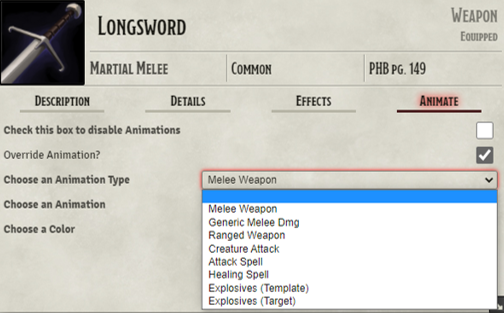
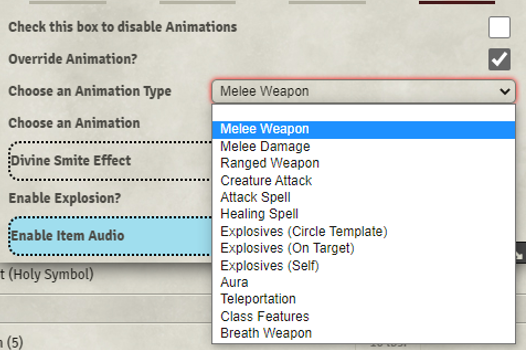
Readme Updates

diff --git a/README.md b/README.md
@@ -1,8 +1,9 @@
-## NOTE: This is now backwards compatible with miniumum Foundry Core version 0.7.9
-
-## ALSO NOTE: 0.3.50 and above REQUIRES an Uninstall/Reinstall of the Automated Animations Module from version 0.3.28. I had to change the back-end module name to be able implement Sounds  
-
-### Patreon Link: https://www.patreon.com/otigon : Not required, but appreciated
+## NOTE: 0.3.50 and above REQUIRES an Uninstall/Reinstall of the Automated Animations Module from version 0.3.28. I had to change the back-end module name to be able implement Sounds  
+If you enjoy Automated Animations, consider sending some love on Patreon
+### Patreon Link: https://www.patreon.com/otigon : Not required, but appreciated  
+\
+\
+\
 
 # Automated Animations
 **No animations are provided in this module. It is designed to work in conjunction with the JB2A Animated Assets module. This module has been reviewed, approved and recommended by JB2A**  
@@ -16,55 +17,90 @@ https://github.com/otigon/automated-jb2a-animations/blob/main/Animations/Availab
 
 # Introduction
 
-
 Time to ditch those animation macros! This module is designed to implement all of the "instant" duration animations like:
 
 - Weapon Attacks
 - Attack Spells
 - Explosions
-- Healing Spells
+- Healing Spells  
+**Now implementing:**
+- Instant Template Effects
+- Class Features  
+- Aura Effects with the **Custom Token Animations** module by Kandashi
+- Sound Effect options
 
-Currently implemented for **D&D 5e** and **PF1**, this module leverages the excellent animations from **JB2A**
+Current System Compatibility:  
+- DnD 5e  
+- PF1  
+- Shadow of the Demon Lord  
+- Tormenta 20  
+- Swade (WIP, it seems to broken atm)  
+
+Systems in Process for Compatibility:  
+- Starfinder (in process)  
+- Warhammer  (awaiting 0.8 system release)  
+- DnD 3.5 (in process)  
+- Please log a GitHub request for other systems  
 
 REQUIRED MODULES: 
-- **FXMaster**
 - **JB2A** - Jules&Ben's Animated Assets (patreon and/or free version)  
 
 Optional Modules:
 - Token Magic FX
 
-Supported Modules for 5e (Those that mess with rolling):
-- CORE support now live!
+Supported Modules for DnD5e (Those that mess with rolling):
+- CORE
 - MRE; Options to play animations on Attack or Damage
-- Midi-QOL; Options to play animations on Damage, Hit Targets, Check Saves for certain effects
-- Better Rolls; version 1.4.5 and above will play the animation on Attack Rolls through Better Rolls. I'll work on optional play on Damage Rolls for BR
-
-PF1 Support:
-- Initial support for the PF1 system. There may be bugs that pop up, but let me know and I'll get on it to fix them
-
+- Midi-QOL; Options to play animations on Attack, Damage, Hit Targets, Check Saves for certain effects
+- Better Rolls; version 1.4.5 and above will play the animation on Attack Rolls through Better Rolls. I'll work on optional play on Damage Rolls for BR  
+- Minimal Rolling Enhancements  
+- Mars 5e  
 
 ## Roadmap (subject to change):  
-    
-1. Adding Localization to support other languages -- DONE     
-2. Extending support to Star Wars, GURP  -- In Progress
-4. Adding customizable TMFX options on a per item basis (versus a global on/off setting currently)
-5. Ability to easily apply Sound FX in item customization settings  -- waiting until 0.8 stable  
-6. Adding more automatic recognition options (Spiritual Weapon Auto-Spawn & Delete, Reaction effects, Stuns, etc)  
+     
+1. Extending support to more systems  -- In Process
+2. Adding customizable TMFX options on a per item basis (versus a global on/off setting currently)  
+3. Adding "Summon" effects for spells/features  
+4. Enhancing Item Sounds to use a wildcard feature  
 
 # Overview
 ## Attack Spells and Melee attacks require a token(s) to be Targeted
 
-This module functions similarly to calling On-Use Macros through Midi-QOL or Item Macro. However, this will run all of the animations behind the scenes without fussing with macros. This is ONLY set up for DnD5e and PF1 currently, though may work on other similar systems. System expansion will be in the works soon (see roadmap above) 
+This module functions similarly to calling On-Use Macros through Midi-QOL or Item Macro. However, this will run all of the animations behind the scenes without fussing with macros.  
 
-Automated Animations reads the data passed through Chat Cards, or Module Hooks, to get the **Name** of the item. Items (Spells, Weapons, etc) that have a **name** matching a **JB2A animation** will play an animation on use. This generally occurs on the Attack Roll, with options for playing Animations on Damage Rolls. All **default** colors for available animations are based on the **Free** JB2A Module. To use color variants, you need to have the **Patreon** version of the JB2A Module.
+Automated Animations reads the data passed through Chat Cards, or Module Hooks, to get the required information. Items (Spells, Weapons, etc) that have a **name** matching a **JB2A animation** will automatically play an animation on use. This generally occurs on the Attack Roll, with options for playing Animations on Damage Rolls. All **default** colors for available animations are based on the **Free** JB2A Module. To use color variants, you need to have the **Patreon** version of the JB2A Module.  
+# Module Settings  
+ 
+- **Disable the Startup Window Popup**: Prevents the Welcome Information from opening on start-up  
+- **Global Delay**: Adds a user specified Delay to the start of ALL animations. Designated in milliseconds  
+- **Animations Play ABOVE Overhead Tiles**: By default, animations are rendered BELOW any Overhead tiles. This makes for great depth on scenes.  
+- **Autoplay Video Preview in A-A Tab**:  
+-- **No Video Preview** (Default)  
+-- **Manual Play**: Must click a play button to preview  
+-- **Autoplay**: Video previews automatically play
+- **Hide Animation Tab from Players**: Prevents Player access to the A-A Tab
+- **Targeting Assistant**: Plays a "No Target" animation on the Source Token if there are no targets when an animation was expecting at least one  
+- **Enable Token Magic FX**: Turns on integerated Token Magic Effects filters (Will change on a future update)  
+- **Only play animations on Damage Rolls**: DEFAULT behavior plays animations on Attack Rolls  
+  
 
-# Animate Tab  
+**Midi-QOL ONLY Options** (Will expand on future updates)
+- **Only Play Animations on Hits**: Will not play animations on misses  
+- **Play Animations on Hits and Misses**: Midi-QOL ONLY option. Animations veer off-target on misses  
+- **Critical Hit and Critical Miss**: Enables Crit Hit and Miss Animations (user specified via File Picker).  
+
+# A-A Tab  
+
 
 ![Alt text](pictures/AnimateTab.PNG)  
 
-The **Animate** Tab on Item sheets allows users to customize colors (from the Patreon module), assign a different animation to the item, or stop the animation from playing altogether.  
+The **A-A** Tab on Item sheets allow users to customize colors (from the Patreon module), assign a different animation to the item, stop the animation from playing, and enable Sounds to play when the item is used.  
 
 Item Names that are automatically Recognized will have the **COLOR** menu pre-populated with available color variants. This is where you will change the colors of the animation.  
+  
+Some items are automatically recognized, and will play animations by default. For ANY item that is automatically recognized or not, you can change/set the desired animation by checking the OVERRIDE button in the A-A Tab.  
+  
+Checking the **DISABLE** animation button will cause NO animation to play for those that are automatically recognized.  
   
 ![Alt text](pictures/AnimateColors.PNG)  
   
@@ -73,43 +109,85 @@ To use a different animation, or to assign an animation to an Item that doesn't 
 ![Alt text](pictures/AnimateOverride.PNG)  
 
 This enables an option to **Choose an Animation Type**. This menu is divided into several categories:  
-- Melee Weapon  
-- Generic Melee Damage  
-- Ranged Weapon  
-- Creature Attack  
-- Attack Spell  
-- Healing Spell  
-- Explosives (Template)  
-- Explosives (Target)  
 
+
+## Melee Weapon  
+
+Melee Animations such as Greataxe, Mace, Rapier etc. Some animations also have "Ranged" variants and will switch between the Melee and Ranged Animation depending on token position and other class features.  
+- Dagger
+- Handaxe
+- Spear  
+  
+You can also use the following sub-options:  
+- Divine Smite effect (Divine Smite on self and target are configureable)
+- Explosion (Add explosive effects on hit)  
+-- Explosion Sounds are configurable with this option
+  
+## Melee Damage  
+  
+Provides Generic Damage type animations (patreon ONLY), and the Unarmed Strike and Flurry of Blows animations  
+  
+  You can also use the following sub-options:  
+- Divine Smite effect (Divine Smite on self and target are configureable)
+- Explosion (Add explosive effects on hit)  
+-- Explosion Sounds are configurable with this option
+  
+## Ranged Weapon 
+
+Ranged Weapon animations such as Arrow, Boulder, Laser Shots, and a Throwing Hammer  
+  
+Using the "Arrow" Animation allows for choosing an Explosion Effect on arrow landing  
+  
+## Creature Attack  
+  
+Bite and Claw Animations  
+  
+## Attack Spells  
+  
+Contains all JB2A Attack Spell animations such as Fire Bolt, Guiding Bolt and Ray of Frost  
+  
+## Healing Spell
+  
+Contains the Cure Wounds and Generic Healing animations. Where available, variant options are provided  
+  
+## Explosives (Circle Template)  
+  
+Designed for use with items that have a Sphere, Cone, Circle type template (required). You can set the Variant, Radius and number of Loops for the animation.  
+  
+## Explosives (On Target)  
+  
+Causes an Explosion animation on the Targeted Token on item use  
+  
+## Explosives (Self)  
+  
+Intended for "Self Emanating" effects like Nova Explosions, Anti-Life Shell, etc. These will happen on the Source Token  
+  
+## Aura (REQUIRES the Custom Token Animations Module)  
+  
+Offers several JB2A Animations to be used as an Aura effect, and spawns a Dialog box that will delete the CTA aura effect when used. If you close (X) the dialog box unintentionally, you will need to delete the effect using the CTA panel.  
+Gives the options to set the Radius, Animation Type, Tint, and Opacity (0.75 recommended)  
+  
+## Teleportation  
+  
+Currently only set for use with the Misty Step Animation. You can set the Range for the spawned guide template, and when used your token will teleport to whereever you LEFT click on the Canvas.  
+  
+## Class Features  
+  
+Specific for future expansion, but currently only contains the Bardic Inspiration animation. You can set Source and Target animations independantly as well as enabling **Marker** animations for Source and Target. MARKERS REQUIRE the CTA Module.  
+  
+## Breath Weapons  
+  
+Currently set for Line/Ray Templates, and assumes a 30 foot distance. This menu will be updated to encompass more Template types (Cones for example). You can choose the Animation Type and Color  
+  
+# Item Sounds  
+![Alt text](pictures/ItemSounds.png)  
+  
+A recent addition is the ability to play sounds when using items. When enabled, you can choose any Audio file and set the volume **(0.25 - 0.75 Recommended)**. The Audio Delay can be set in milliseconds to time the start of the Audio File with a particular animation.  
+  
 # Available Animations  
-check the Animations.md file for available animations and colors  
-## Special Notes  
-**Explosives (Template)**  
-For use with Spells/Items that use a Circular Template. This will play an explosion animation at the center of a circular template when placed on the canvas.  
-**Explosives (Target)**  
-Designed for use with **thrown items** like Alchemist's Fire to play an explosion directly on the targetted token.  
+check the Animations.md file for available animations and colors   
 
-# Settings
 
-**1. Enable Token Magic FX**
-- Token Magic FX for this Module is disabled by default. Enable this to activate the built in TMFX filters that play with the Animations.
-- This is a world setting, but a future release will enable the options to disable the effects on a per animations basis.
-
-**When the Animations Play**  
-**MIDI-QOL**  
-By default, the animations activate and play when the Midi-QOL "workflow" is complete. This means a few things:  
-- If using MIDI to check for hits, the animations will play even if the attack misses and damage is not rolled.
-- If NOT using Midi to check for hits, the animation will play when the Damage is rolled, but will also play on Nat 1's.
-
-**2. Only play animations on Hits**
-- If checking hits with Midi, you can enable this option to ONLY play animations when the target is hit by the attack
-
-**3. Only play animations on Damage Rolls**
-- A simpler option that will ONLY play animations when the Damage or Healing rolls are done.
-
-**Core 5e, MRE**  
-By Default, animations will play on Attack Rolls. Setting is available to play animations on **Damage Rolls** only.
 
 # Special Notes
 
@@ -123,6 +201,10 @@ By Default, animations will play on Attack Rolls. Setting is available to play a
 # External Calls for Animations  
 Other modules can now call animations through Automated Animations by using:  
 **AutoAnimations.playAnimation(sourceToken, targets, item)**  
+Parameters are as follows:
+- sourceToken: The Token that is using the item  
+- targets: passed as an Array
+- item: the item that is being used  
 
 
 

diff --git a/Animations/Available Animations.md b/Animations/Available Animations.md
@@ -10,16 +10,18 @@ Spell name is automatically recognized and plays with the Default Color. Change 
 | Spell Name | Default Color | JB2A Patreon Color |
 | :--------- | :------------ | :----------------- |
 | Cure Wounds | `Blue` | `Green`, `Purple`, `Red` |
-| Disintegrate | `Green` | `Dark Red`, `Orange Pink`, `Purple Blue` |
-| Eldritch Blast | `Purple` | `Dark Purple`, `Green`, `Yellow` |
-| Firebolt/Fire Bolt | `Orange` | `Red`, `Blue`, `Green`, `Purple` |
-| Healing Word | `Blue`, `Green`, `Purple`, `Yellow` | *all colors are available in the Free version* |
-| Magic Missile | `Purple` | `Blue`, `Green`, `Yellow`, `Random` |
-| Ray of Frost | `Blue` | `Green`, `Purple Teal`, `Yellow Blue` |
-| Scorching Ray | `Orange` | `Blue`, `Green`, `Purple`, `Red`, `Yellow` |
+| Generic Healing Variant 01 | `Blue`, `Green`, `Purple`, `Yellow` | *all colors are available in the Free version* |
+| Generic Healing Variant 02 | `Green Orange` | `White Blue`, `Pink Purple`, `Teal Yellow` |
+| Disintegrate | `Green` | `Dark Red`, `Orange Pink`, `Purple Blue`, `Random` |
+| Eldritch Blast | `Purple` | `Dark Purple`, `Green`, `Light Green`, `Yellow`, `Dark Red`, `Orange`, `Pink`, `Random` |
+| Firebolt/Fire Bolt | `Orange` | `Red`, `Blue`, `Green`, `Purple`, `Orange`, `Random` |
+| Guiding Bolt | `Blue Yellow` | `Green Orange`, `Pink Purple`, `White Blue`, `Pink`, `Random` |
+| Magic Missile | `Purple` | `Blue`, `Green`, `Yellow`,`Orange`, `Random` |
+| Ray of Frost | `Blue` | `Green`, `Purple Teal`, `Yellow Blue`, `Random` |
+| Scorching Ray | `Orange` | `Blue`, `Green`, `Purple`, `Red`, `Yellow`, `Rainbow01`, `Rainbow02`, `Random` |
 | Shatter | `Blue` | `Green`, `Orange`, `Purple`, `Red` |
 | Thunderwave | `Blue` | `Green`, `Orange`, `Purple`, `Red` |
-| Witchbolt/Witch Bolt | `Blue` | `Dark Green`, `Dark Purple`, `Dark Red`, `Green`, `Red`, `Yellow` |
+| Witchbolt/Witch Bolt | `Blue` | `Dark Green`, `Dark Purple`, `Dark Red`, `Green`, `Red`, `Yellow`, `Random` |
 
 #### Thunderwave Notes
 
